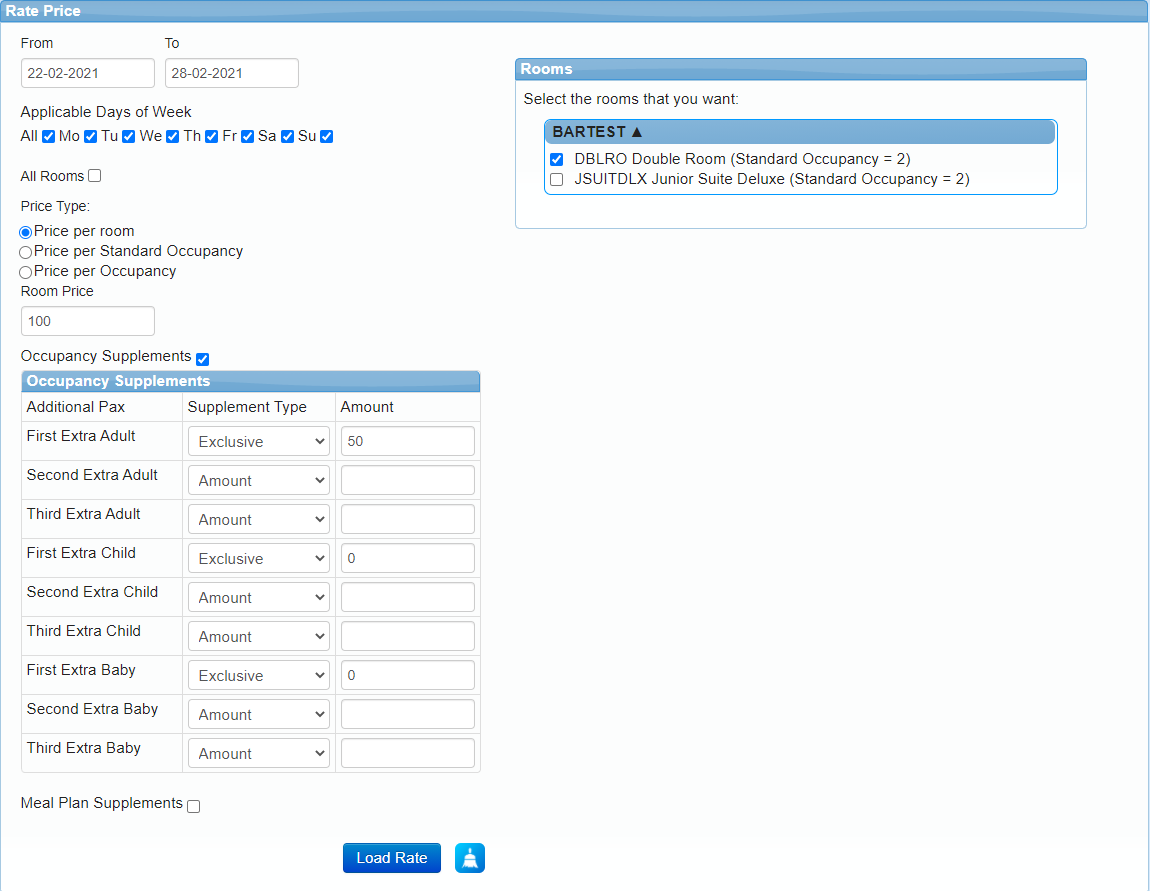
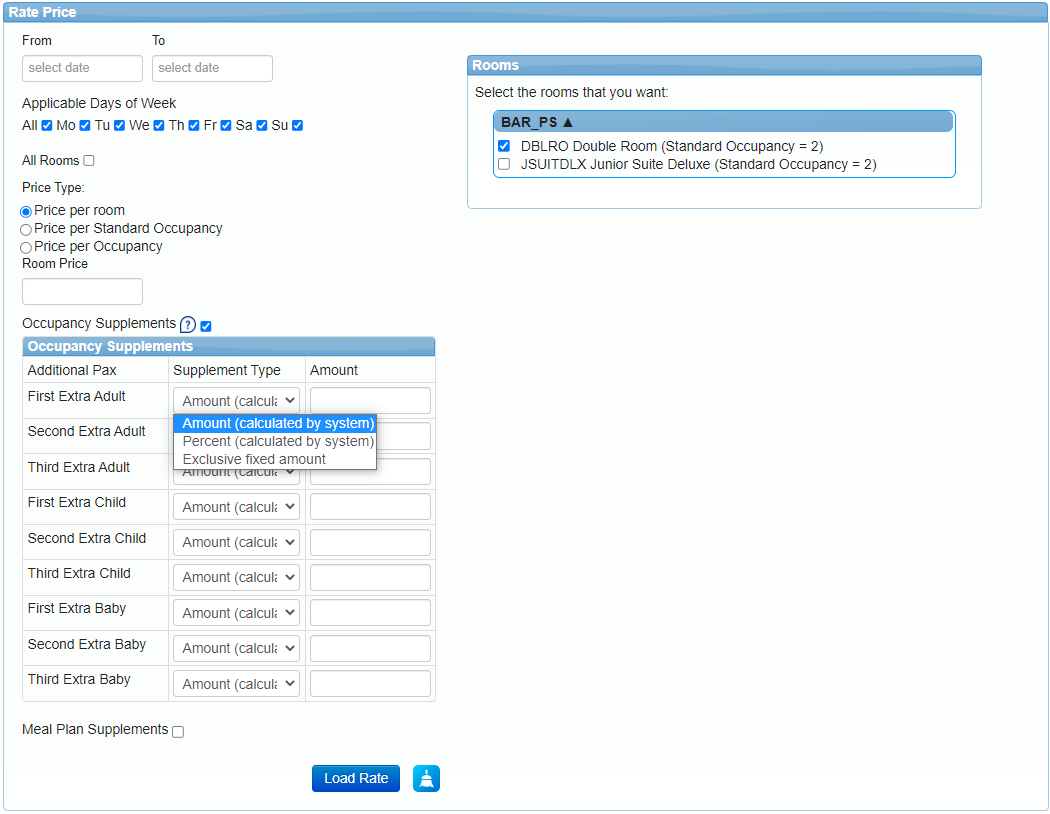
Update_occupancy_supplement

diff --git a/content/inventory-x/extranet/load-product/manual-load/rate-load.md b/content/inventory-x/extranet/load-product/manual-load/rate-load.md
@@ -78,7 +78,7 @@ All occupancies uses **equal and below** the room standard occupancy will have t
 
 If the room allows occupancies uses **above** the standard occupancy you can control the price for these extra passengers using the `Occupancy Supplements` option. You can add different supplements by adult, child and baby. The supplement type defines how the calculation is done: 
 
-* **Amount:** This price is the amount added to the average price per pax calculated by the system. If the price per room is 100€ and the first extra adult has an **amount** supplement, the final price in our example for different occupancies would be:
+* **Amount (calculated by system):** This price is the amount added to the average price per pax calculated by the system. If the price per room is 100€ and the first extra adult has an **amount** supplement, the final price in our example for different occupancies would be:
 
     * **1 adult (1-0-0):** 100€ *(room price)*
     * **2 adults (2-0-0):** 100€ *(room price)*
@@ -86,7 +86,7 @@ If the room allows occupancies uses **above** the standard occupancy you can con
     * **3 adults (3-0-0):** 100€ *(room price)* + 50€ *(average price per pax: room price / standard occupancy, 100/2)* + 50€ *(adult amount supplement)* = 200€
     * **2 adults and 1 child (2-1-0):**  100€ *(room price)* + 0€ *(child exclusive supplement)* = 100€
 
-* **Percent:** This price is the percent obtained from the average price per pax calculated from the room price. If the price per room is 100€ and the first extra adult has a **percent** of 10% supplement, the final price in our example for different occupancies would be:
+* **Percent (calculated by system):** This price is the percent obtained from the average price per pax calculated from the room price. If the price per room is 100€ and the first extra adult has a **percent** of 10% supplement, the final price in our example for different occupancies would be:
 
    * **1 adult (1-0-0):** 100€ *(room price)*
     * **2 adults (2-0-0):** 100€ *(room price)*
@@ -94,7 +94,7 @@ If the room allows occupancies uses **above** the standard occupancy you can con
     * **3 adults (3-0-0):** 100€ *(room price)* + 50€ *(average price per pax: room price / standard occupancy, 100/2)* + 5€ *(10% from 50 - average price per pax)* = 155€
     * **2 adults and 1 child (2-1-0):**  100€ *(room price)* + 0€ *(child exclusive supplement)* = 100€
 
-* **Exclusive:** This price is absolute. If the price per room is 100€ and the first extra adult has an **exclusive** supplement, the final price in our example for different occupancies would be:
+* **Exclusive fixed amount:** This price is absolute. If the price per room is 100€ and the first extra adult has an **exclusive** supplement, the final price in our example for different occupancies would be:
     * **1 adult (1-0-0):** 100€ (room price)
     * **2 adults (2-0-0):** 100€ (room price)
     * **1 adult and 1 child (1-1-0):** 100€ (room price)
